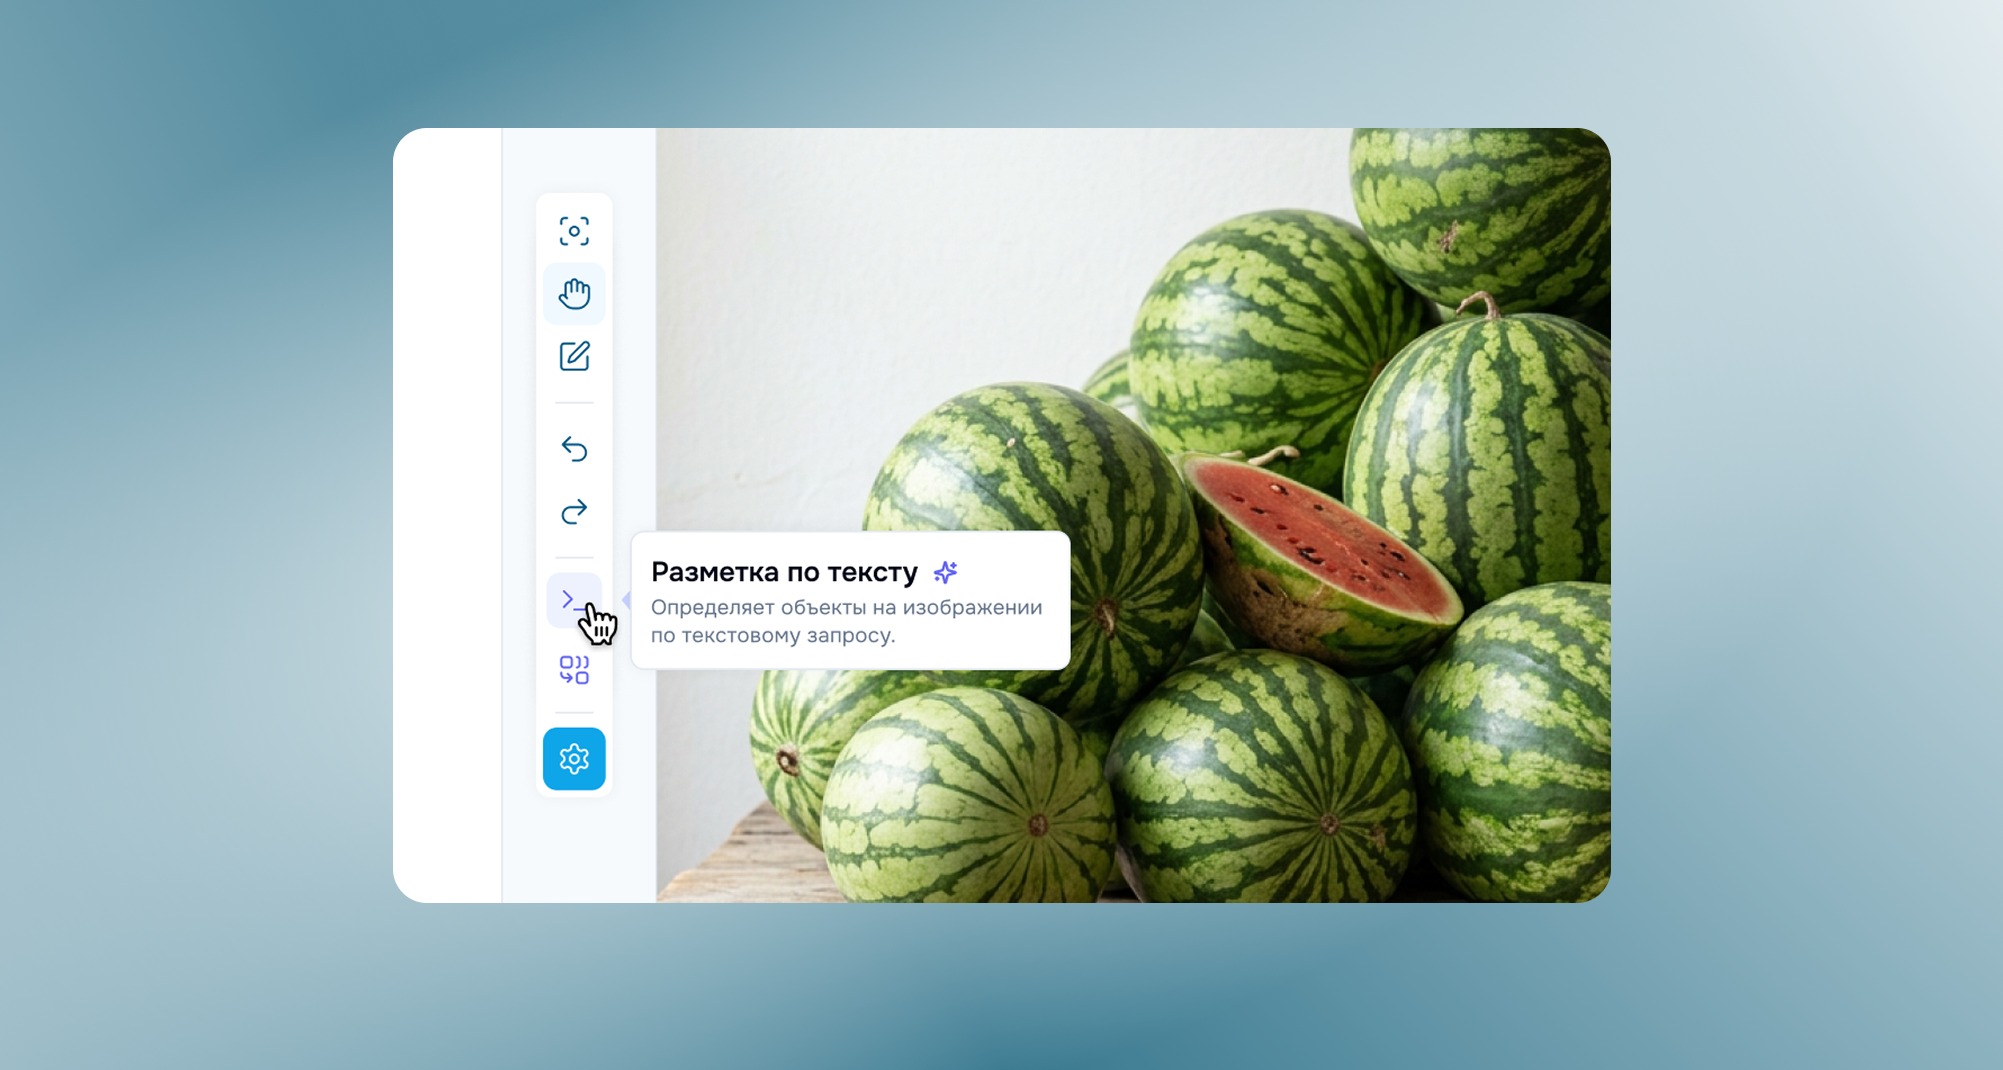
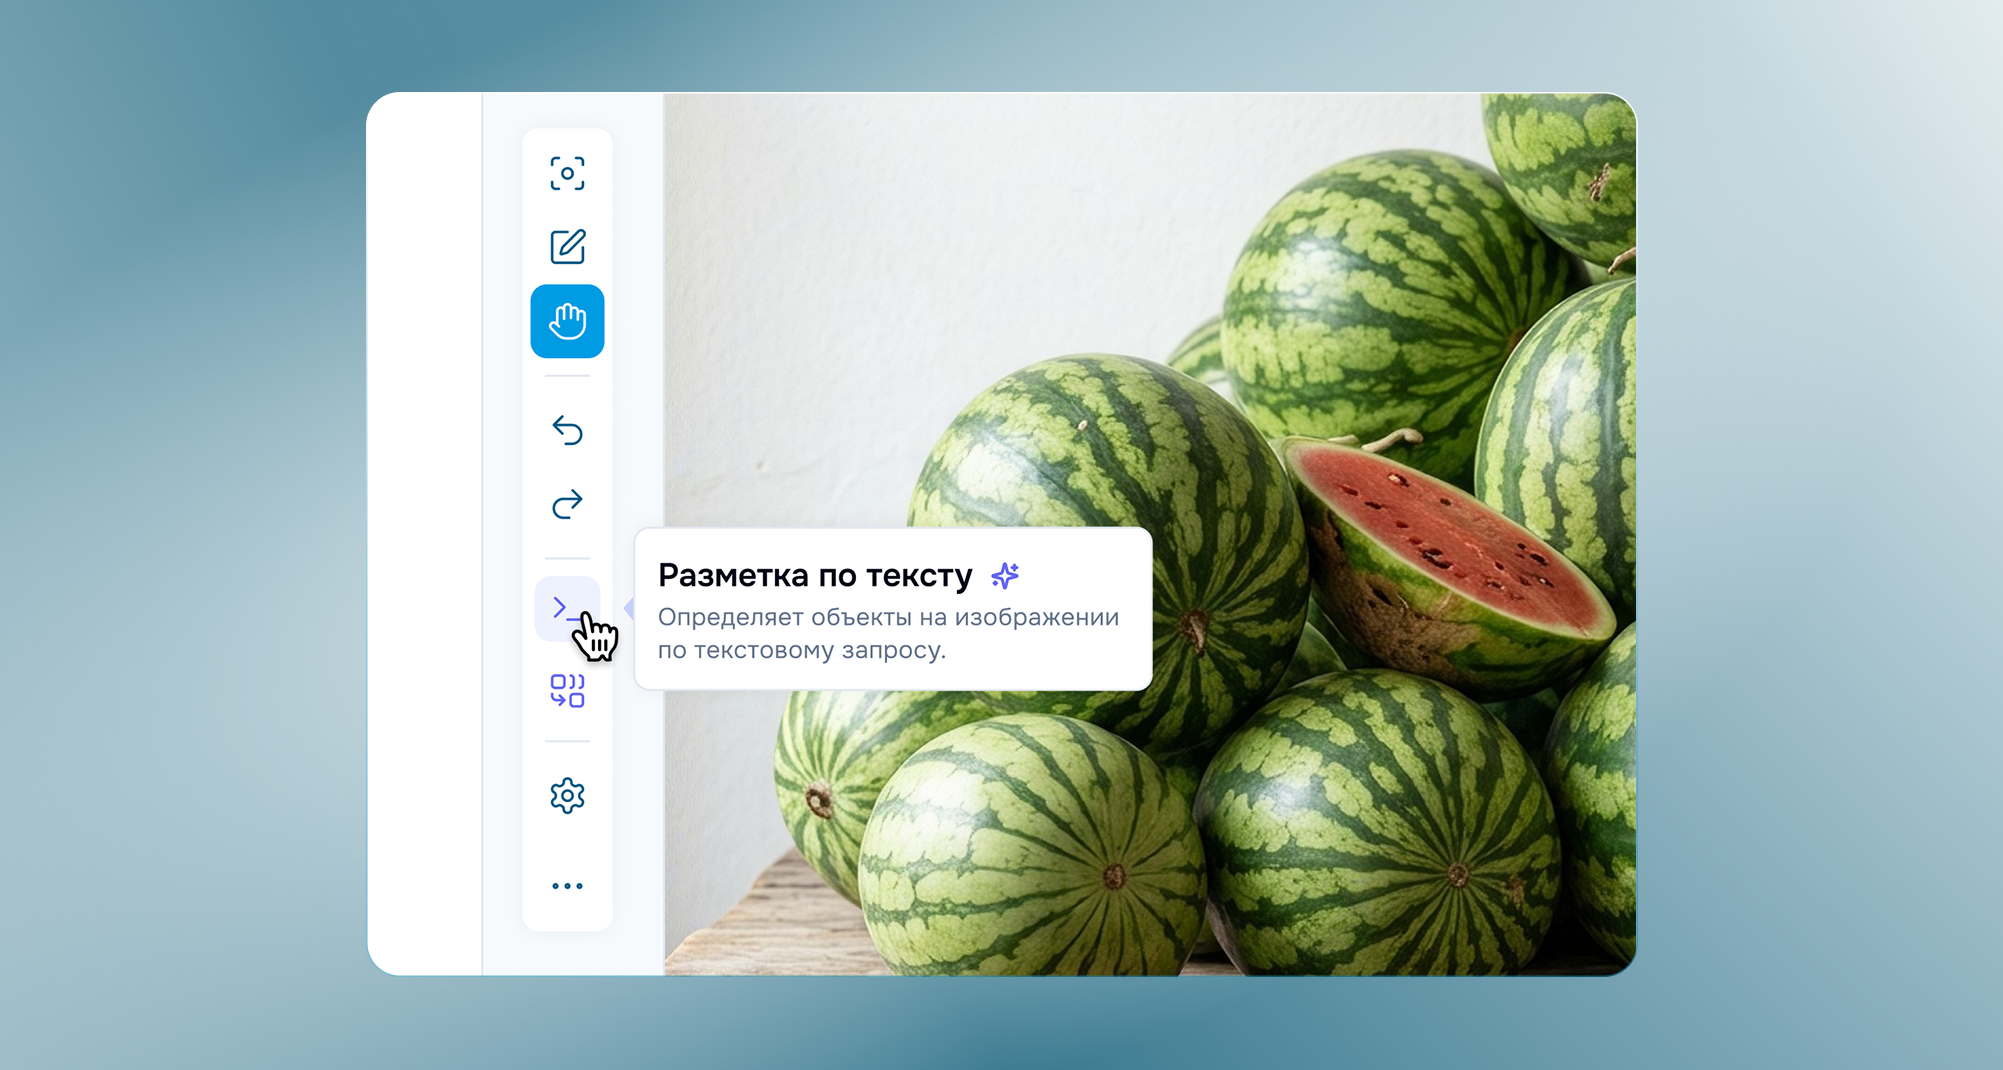
Improvments and changes photo with time at homepage

diff --git a/src/assets/projects/README.md b/src/assets/projects/README.md
@@ -13,6 +13,6 @@ All images are individual cover assets exported by Figma, never whole-page scree
 
 The complete image fills are used where a node export includes external shadows or would bake in a narrow crop. The bank desktop is the individual cover export. CSS applies the approved corner radii and shadows. Full phone cover images are sized by height, preserving phone scale between viewport sizes.
 
-FocusML uses separate desktop and mobile/tablet art through picture sources. Its desktop object position interpolates between the 1440 and 1920 compositions. The mobile/tablet source also reproduces the 768 frame.
+FocusML was updated on 2026-09-08 from user-supplied exports: `focusml-cover-rectanlge.png` (stored as `focus-desktop.png`) and `focusml-cover-square.png` (stored as `focus-mobile.png`). The approved references are the five `homepage-{width}.png` screenshots supplied in the conversation. Picture sources use the square composition at 390, 768 and 1440 px, and the rectangular composition at 1024 and 1920 px. Both use centered CSS cover cropping; the old desktop offset is no longer needed.
 
 ProjectCard uses Astro getImage to generate AVIF and WebP at build time, limiting source dimensions to the resolution required by these covers. The shipped page does not request Figma or original PNGs. Temporary Figma asset URLs are deliberately not retained.
